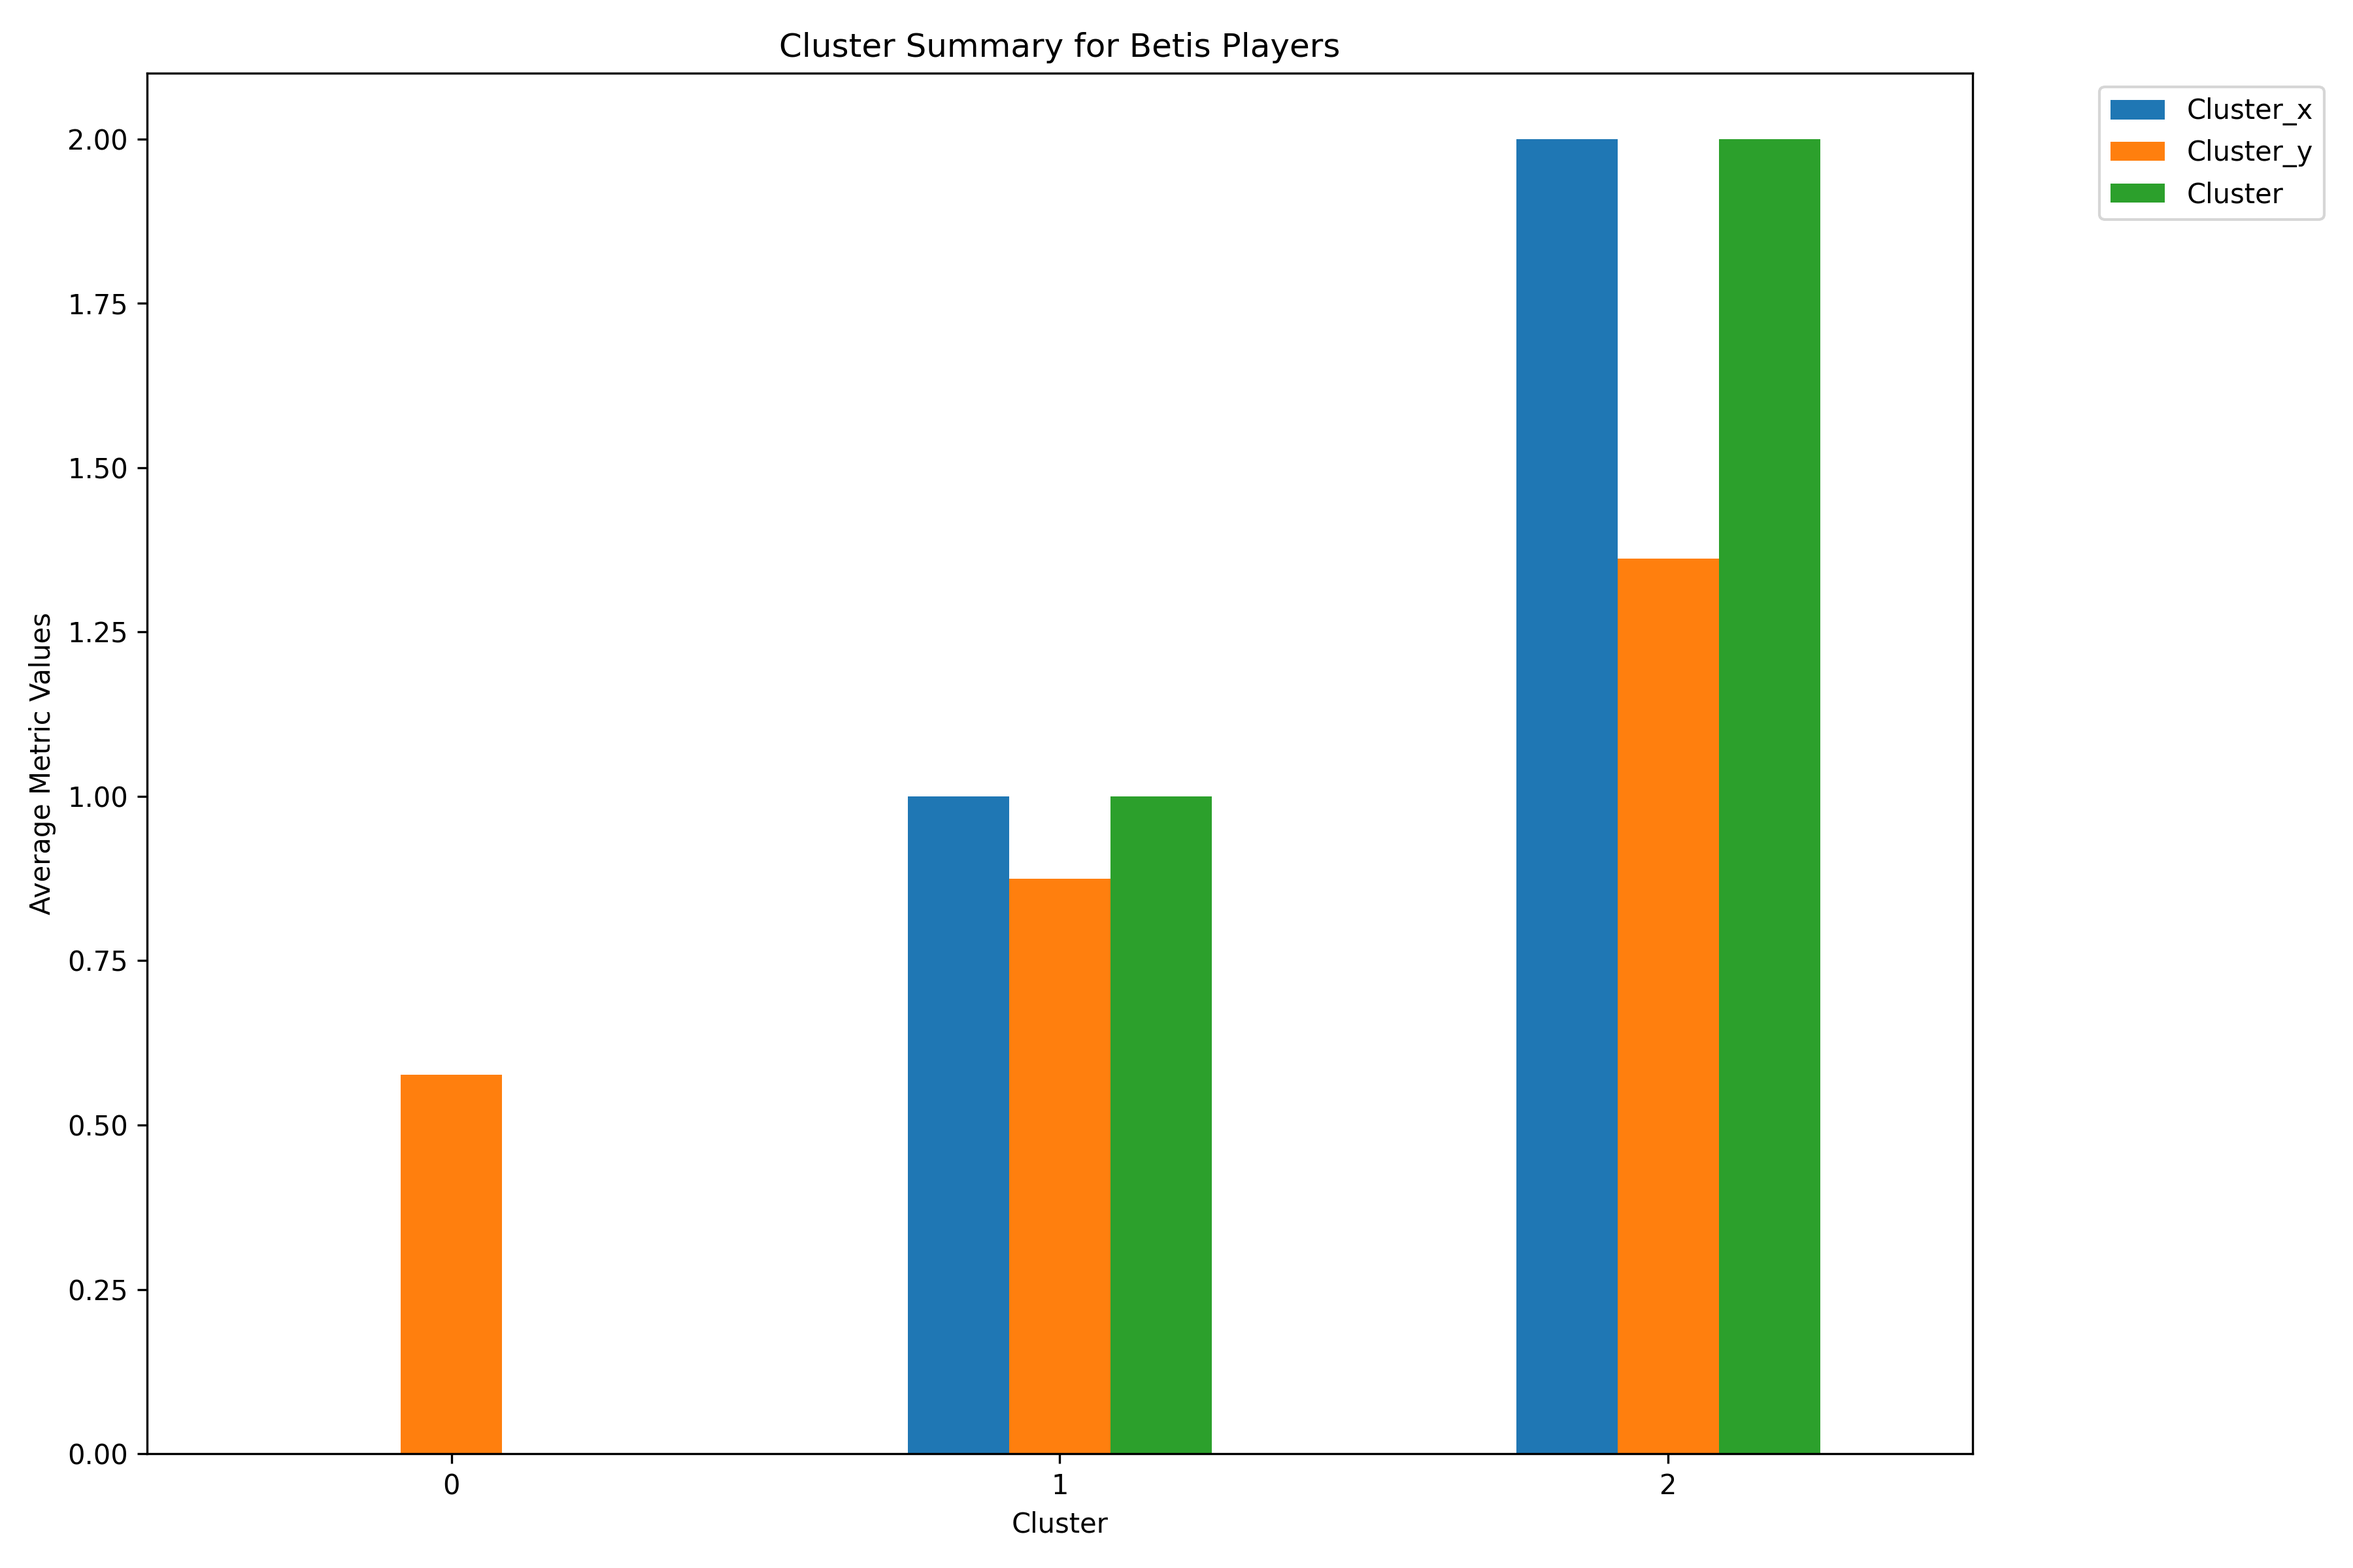
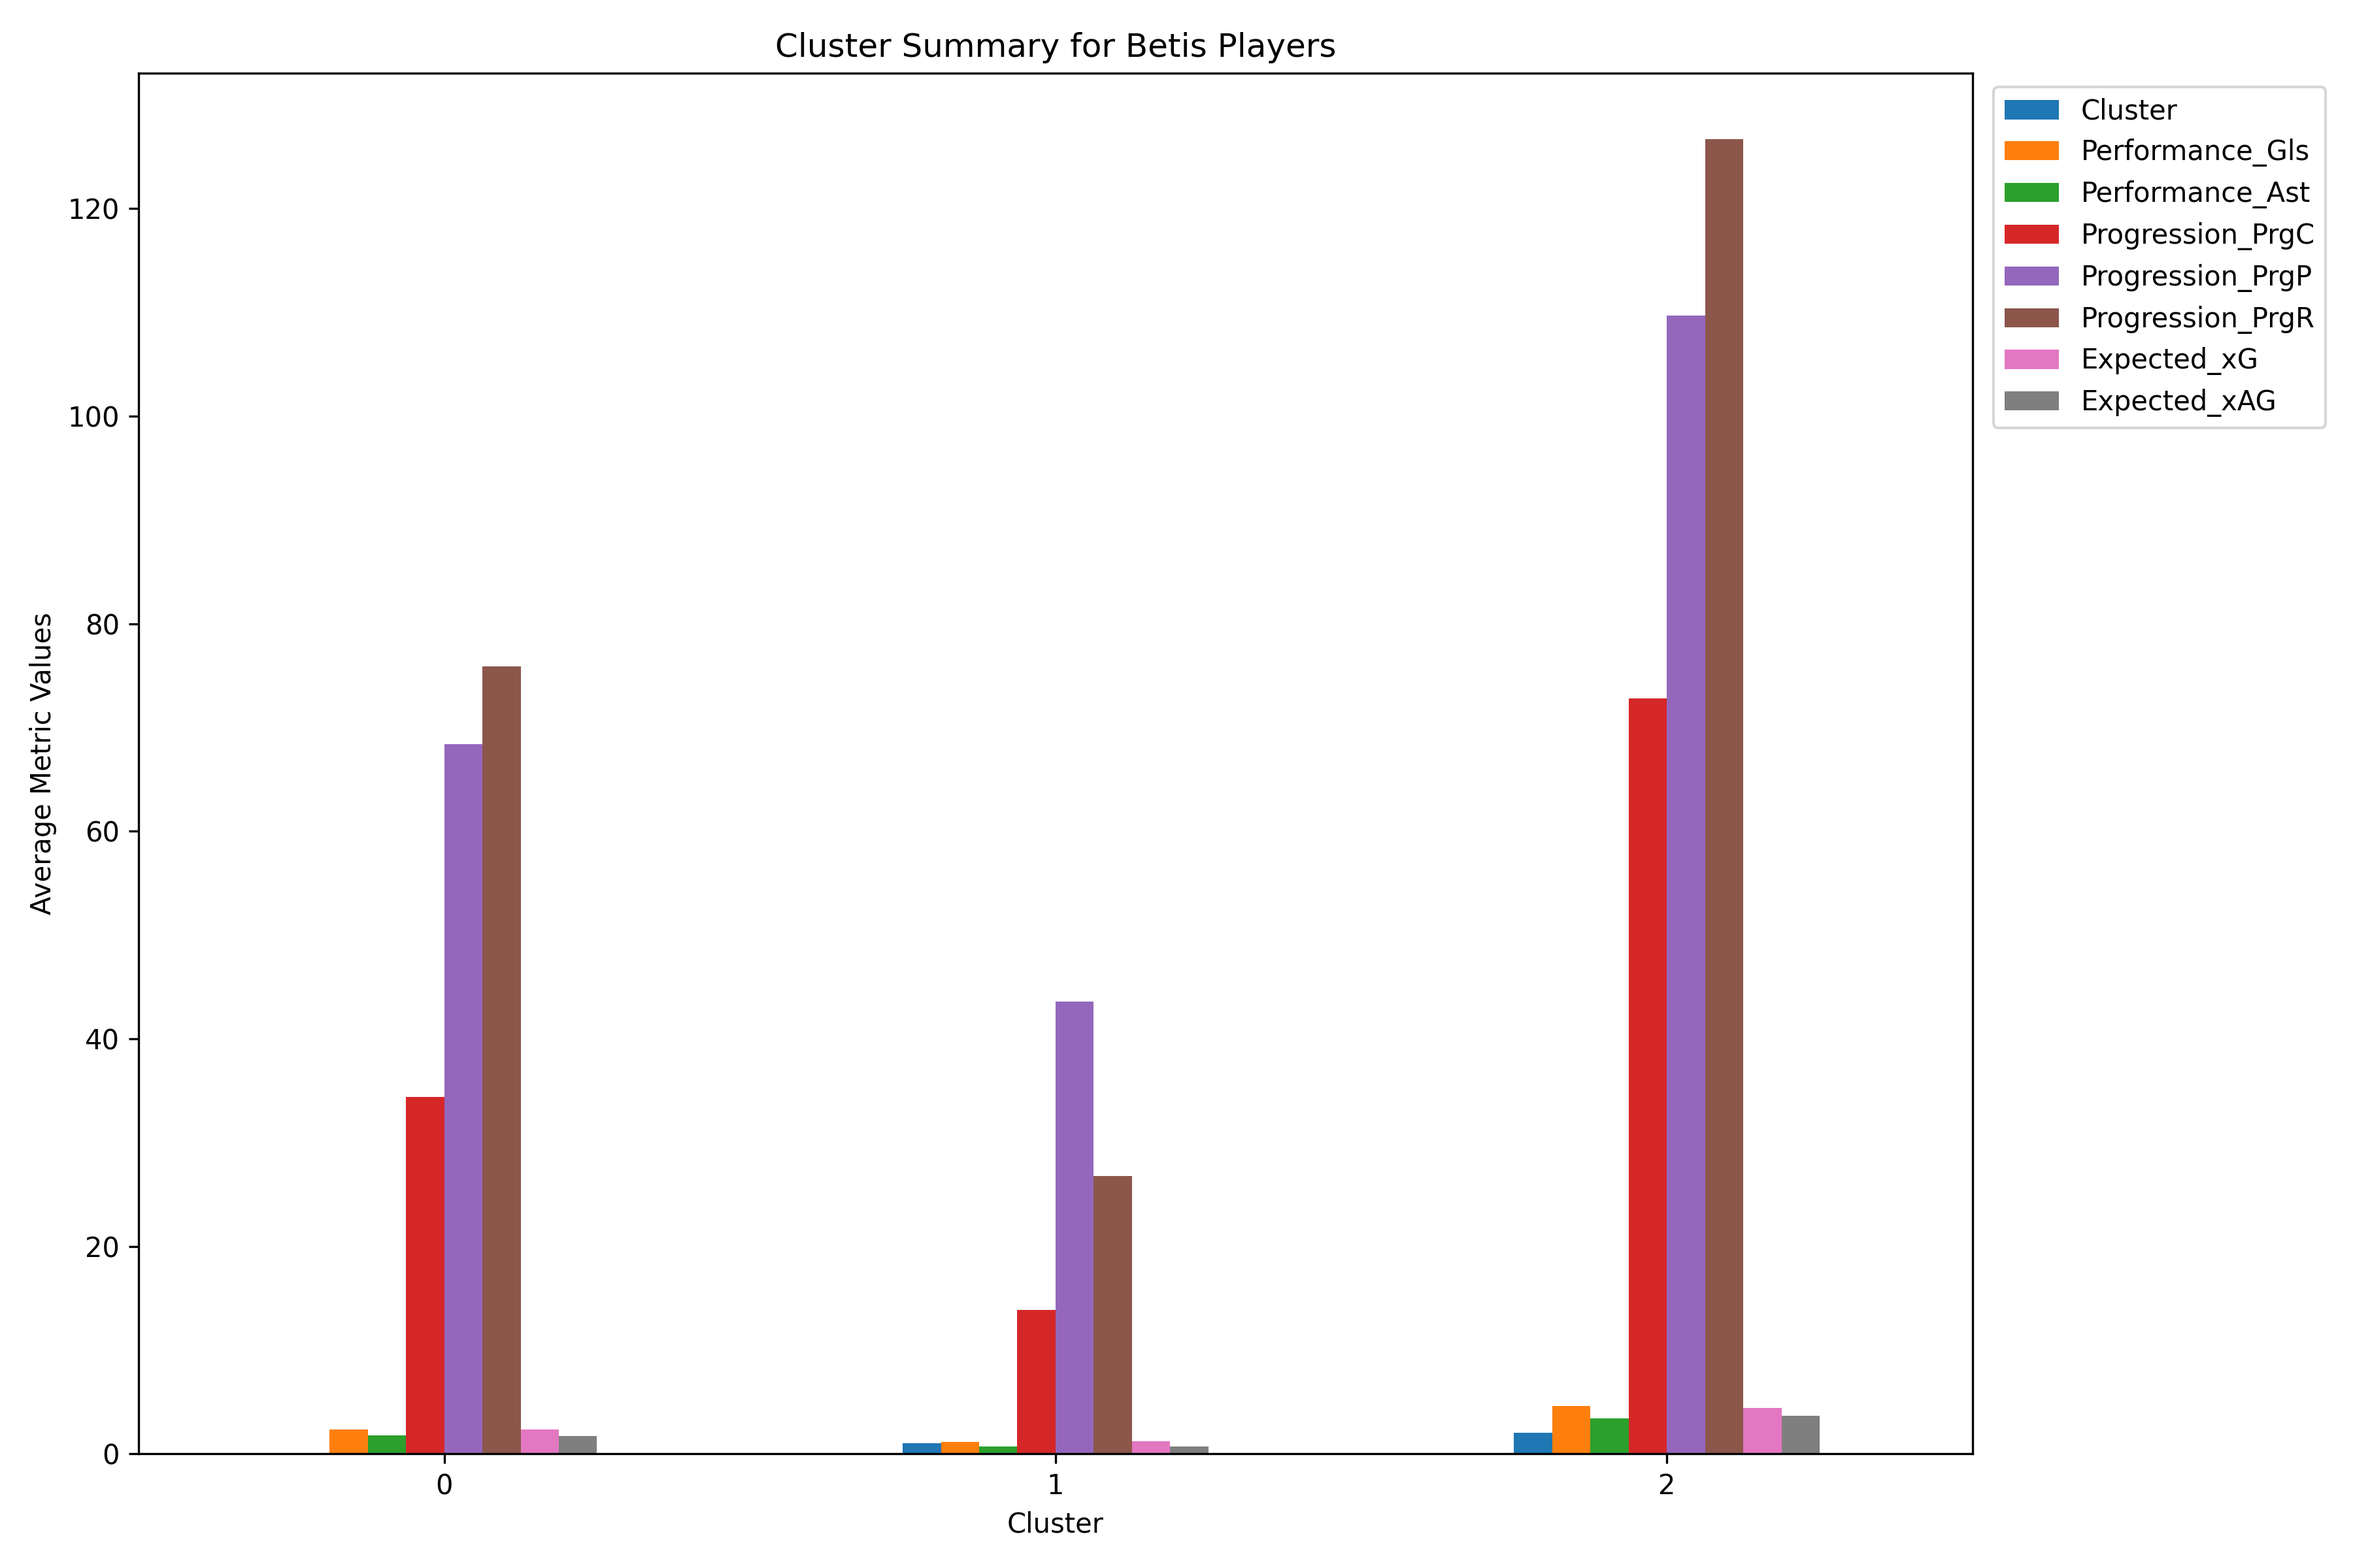
Improve cluster analysys plot with player names

diff --git a/visualize_betis_clusters.py b/visualize_betis_clusters.py
@@ -1,5 +1,6 @@
 import pandas as pd
 import matplotlib.pyplot as plt
+import random
 
 # Load the CSV file with the player clusters
 betis_clusters = pd.read_csv('betis_clusters.csv')
@@ -14,32 +15,45 @@ betis_with_clusters = pd.merge(betis_clusters, all_stats, on='player_', how='lef
 # Use the correct Cluster column after the merge
 betis_with_clusters['Cluster'] = betis_with_clusters['Cluster_x']
 
-# Debug the merged DataFrame
-print(betis_with_clusters.head())
-print(betis_with_clusters.columns)
-
 # Ensure only numeric columns are included in the calculation
 numeric_columns = betis_with_clusters.select_dtypes(include=['float64', 'int64']).columns
 
 # Calculate the average statistics for each cluster
 cluster_summary = betis_with_clusters.groupby('Cluster')[numeric_columns].mean()
 
-# Display the cluster summary as a simple table
-print("\nCluster Summary:")
-print(cluster_summary)
+# Select 5 random players from each cluster
+random_players_per_cluster = {}
+for cluster in betis_with_clusters['Cluster'].unique():
+    players_in_cluster = betis_with_clusters[betis_with_clusters['Cluster'] == cluster]['player_'].drop_duplicates()
+    random_players_per_cluster[cluster] = random.sample(list(players_in_cluster), min(10, len(players_in_cluster)))
+
+# Prepare text for displaying random player names in the chart
+player_texts = {}
+for cluster, players in random_players_per_cluster.items():
+    player_texts[cluster] = "\n".join(players)
 
 # Visualize the cluster summary with a bar chart
-plt.figure(figsize=(12, 8))
-cluster_summary.plot(kind='bar', figsize=(12, 8), title="Cluster Summary for Betis Players")
+plt.figure(figsize=(14, 8))
+cluster_summary.plot(kind='bar', figsize=(14, 8), title="Cluster Summary for Betis Players")
 plt.ylabel("Average Metric Values")
 plt.xlabel("Cluster")
 plt.xticks(rotation=0)
-plt.legend(loc="upper right", bbox_to_anchor=(1.2, 1))
+plt.legend(loc="upper right", bbox_to_anchor=(1.3, 1))
+
+# Add the random player names as text annotations to the graph
+for idx, cluster in enumerate(cluster_summary.index):
+    plt.text(
+        idx,  # Position on x-axis
+        cluster_summary.iloc[idx].max() + 5,  # Position slightly above the tallest bar
+        f"Players Like:\n{player_texts.get(cluster, 'N/A')}",  # Random players
+        ha='center', va='bottom', fontsize=10, color='blue'
+    )
+
 plt.tight_layout()
 
 # Save the chart as an image
-plt.savefig('betis_cluster_summary.png', format='png', dpi=300)
-print("Cluster summary chart saved as 'betis_cluster_summary.png'.")
+plt.savefig('betis_cluster_summary_with_players.png', format='png', dpi=300)
+print("Cluster summary chart with random players saved as 'betis_cluster_summary_with_players.png'.")
 
 # Show the plot
 plt.show()
